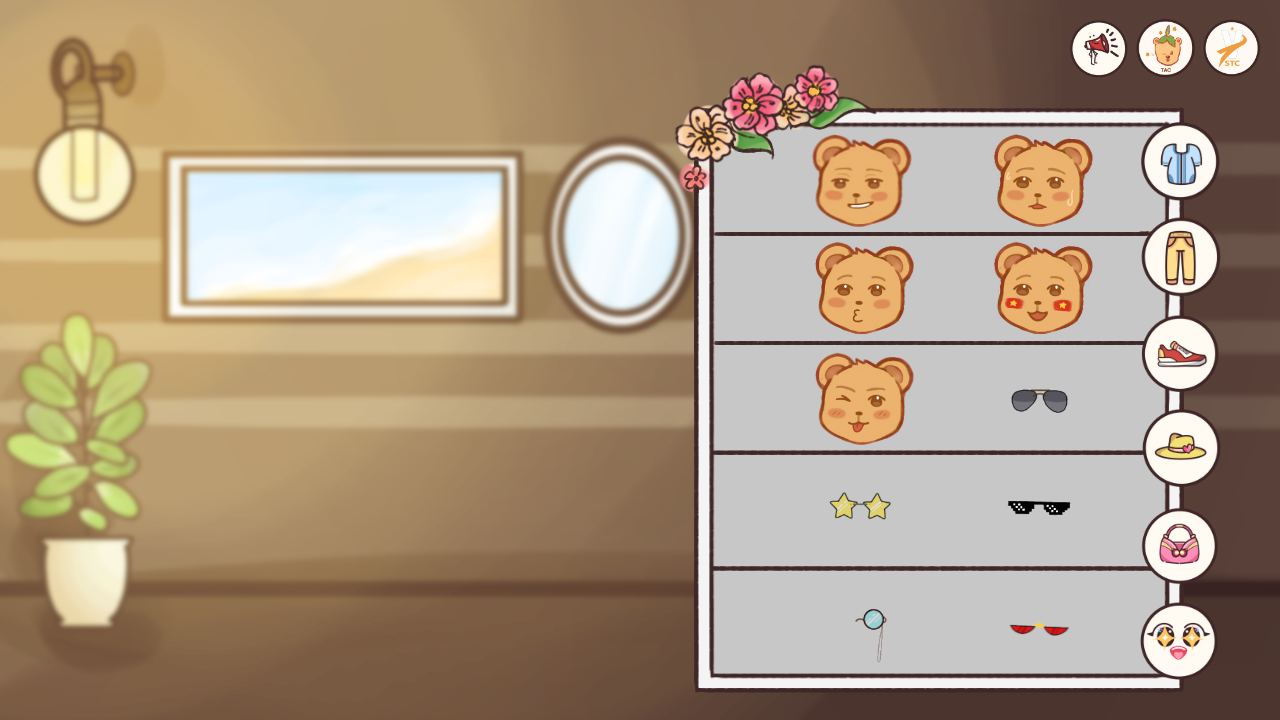
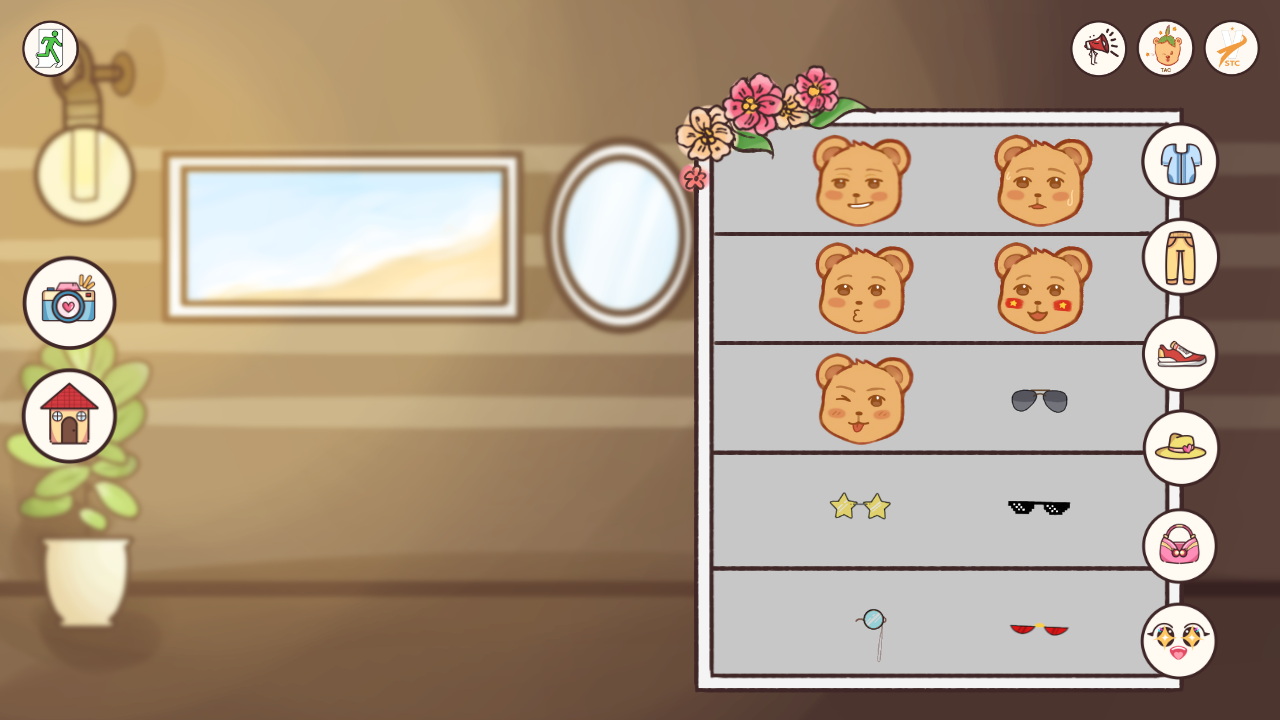
Fixed images

Changed region(s): [[0.0, 0.3361, 0.0938, 0.6417], [0.0, 0.0306, 0.0625, 0.1222]]

diff --git a/main.py b/main.py
@@ -16,7 +16,7 @@ run = True
 yGameTitle = 500
 # music = pygame.mixer.music.load("Sound/sound" + str(random.randint(1,2)) +".mp3")
 
-# Setup âm thanh
+# Setup âm thanh7
 sound_files = ["Sound/sound1.mp3", "Sound/sound2.mp3"]
 current_sound_index = random.randint(0, len(sound_files) - 1)
 MUSIC_END = pygame.USEREVENT + 1
@@ -37,6 +37,14 @@ GREY = (128, 128, 128)
 
 # Images for print screen
 # Đầu chương trình
+print_bg_files_no_logo = [
+    "Asset/PrintBackGround/halongbay1.png",
+    "Asset/PrintBackGround/paris1.png",
+    "Asset/PrintBackGround/pyramid1.png",
+    "Asset/PrintBackGround/colosseum1.png",
+    "Asset/PrintBackGround/bigben1.png"
+]
+
 print_bg_files = [
     "Asset/PrintBackGround/halongbay.png",
     "Asset/PrintBackGround/paris.png",
@@ -81,12 +89,15 @@ mouseHB = pygame.Rect(xMouse, yMouse, mouseSize, mouseSize)
 
 # Check clickable on club logos
 def clickClubButton(events):
+    global run
     for event in events:
         if event.type == pygame.MOUSEBUTTONDOWN:
             if mouseHB.colliderect(VoyageLogoBut):
                 webbrowser.open("https://www.facebook.com/voyage.stc")
             if mouseHB.colliderect(ArtLogoBut):
                 webbrowser.open("https://www.facebook.com/ArtclubTHD")
+            if mouseHB.colliderect(QuitBut):
+                run = False
 
 def scale_rect(xr, yr, wr, hr):
     return pygame.Rect(int(xr* widthSr), int(yr * heightSr), int(wr * widthSr), int(hr * heightSr))
@@ -122,6 +133,7 @@ while run:
         GameTitle = pygame.image.load("Asset/ACAN-MENU/GameTitle.png")
 
         # UI for start screen
+        QuitBut = scale_rect(0.02, 0.027, 0.045, 0.08)
         VoyageLogoBut = scale_rect(0.946, 0.027, 0.045, 0.08)
         ArtLogoBut = scale_rect(0.886, 0.027, 0.045, 0.08)
         SoundBut = scale_rect(0.835, 0.027, 0.045, 0.08)
@@ -130,7 +142,7 @@ while run:
         screen.blit(pygame.transform.smoothscale(StartMenuBackground, (widthSr, heightSr)), (0, 0))  # Fill with start menu background
         screen.blit(pygame.transform.smoothscale(GameTitle, (widthSr, heightSr)), (0, 0 + yGameTitle))  # Draw game title
         screen.blit(pygame.transform.smoothscale(StartButton, (StartBut.width, StartBut.height)), (StartBut.x, StartBut.y))  # Draw start button
-
+        
         clickClubButton(events)  # Check if club buttons are clicked
         for event in events:    
             if event.type == pygame.MOUSEBUTTONDOWN:
@@ -146,8 +158,7 @@ while run:
                     else:
                         current_sound_index = random.randint(0, len(sound_files) - 1)
                         play_music(current_sound_index)
-
-        
+      
     elif currentScreen == "StoryMenu":
 
         # UI for story screen
@@ -188,6 +199,7 @@ while run:
     elif currentScreen == "GameMenu":
 
         # UI for gameplay screen
+        QuitBut = scale_rect(0.02, 0.027, 0.045, 0.08)
         VoyageLogoBut = scale_rect(0.946, 0.027, 0.045, 0.08)
         ArtLogoBut = scale_rect(0.886, 0.027, 0.045, 0.08)
         SoundBut = scale_rect(0.835, 0.027, 0.045, 0.08)
@@ -327,8 +339,8 @@ while run:
                 
         screen.blit(pygame.transform.smoothscale(GameplayBackground, (widthSr, heightSr)), (0, 0))  # Fill with gameplay background
         screen.blit(pygame.transform.smoothscale(modelImage, (CharacterFrame.width, CharacterFrame.height)), (CharacterFrame.x, CharacterFrame.y))  # Draw character frame
-        screen.blit(pygame.transform.smoothscale(CameraButImage, (CameraBut.width + 25, CameraBut.height + 25)), (CameraBut.x - 15, CameraBut.y - 15))  # Draw camera button
-        screen.blit(pygame.transform.smoothscale(HomeGameplayButImage, (HomeGameplayBut.width + 25, HomeGameplayBut.height + 25)), (HomeGameplayBut.x - 15, HomeGameplayBut.y - 15))
+        # screen.blit(pygame.transform.smoothscale(CameraButImage, (CameraBut.width + 25, CameraBut.height + 25)), (CameraBut.x - 15, CameraBut.y - 15))  # Draw camera button
+        # screen.blit(pygame.transform.smoothscale(HomeGameplayButImage, (HomeGameplayBut.width + 25, HomeGameplayBut.height + 25)), (HomeGameplayBut.x - 15, HomeGameplayBut.y - 15))
         
         if ShoeImage != '':
             screen.blit(pygame.transform.smoothscale(ShoeImage, (CharacterFrame.width, CharacterFrame.height)), (CharacterFrame.x, CharacterFrame.y))
@@ -348,6 +360,7 @@ while run:
     elif currentScreen == "PrintScreenMenu":
 
         # UI for print screen menu
+        QuitBut = scale_rect(0.02, 0.027, 0.045, 0.08)
         VoyageLogoBut = scale_rect(0.946, 0.027, 0.045, 0.08)
         ArtLogoBut = scale_rect(0.886, 0.027, 0.045, 0.08)
         SoundBut = scale_rect(0.835, 0.027, 0.045, 0.08)
@@ -365,6 +378,8 @@ while run:
         for event in events:
             if event.type == pygame.MOUSEBUTTONDOWN:
                 if mouseHB.colliderect(DownloadBut):
+
+                    PrintBackground = pygame.image.load(print_bg_files_no_logo[print_bg_index])
 
                     screen.blit(pygame.transform.smoothscale(PrintBackground, (widthSr, heightSr)), (0, 0))  # Fill with print background
                     screen.blit(pygame.transform.smoothscale(modelImage, (CharacterFrame.width, CharacterFrame.height)), (CharacterFrame.x, CharacterFrame.y))  # Draw character frame
